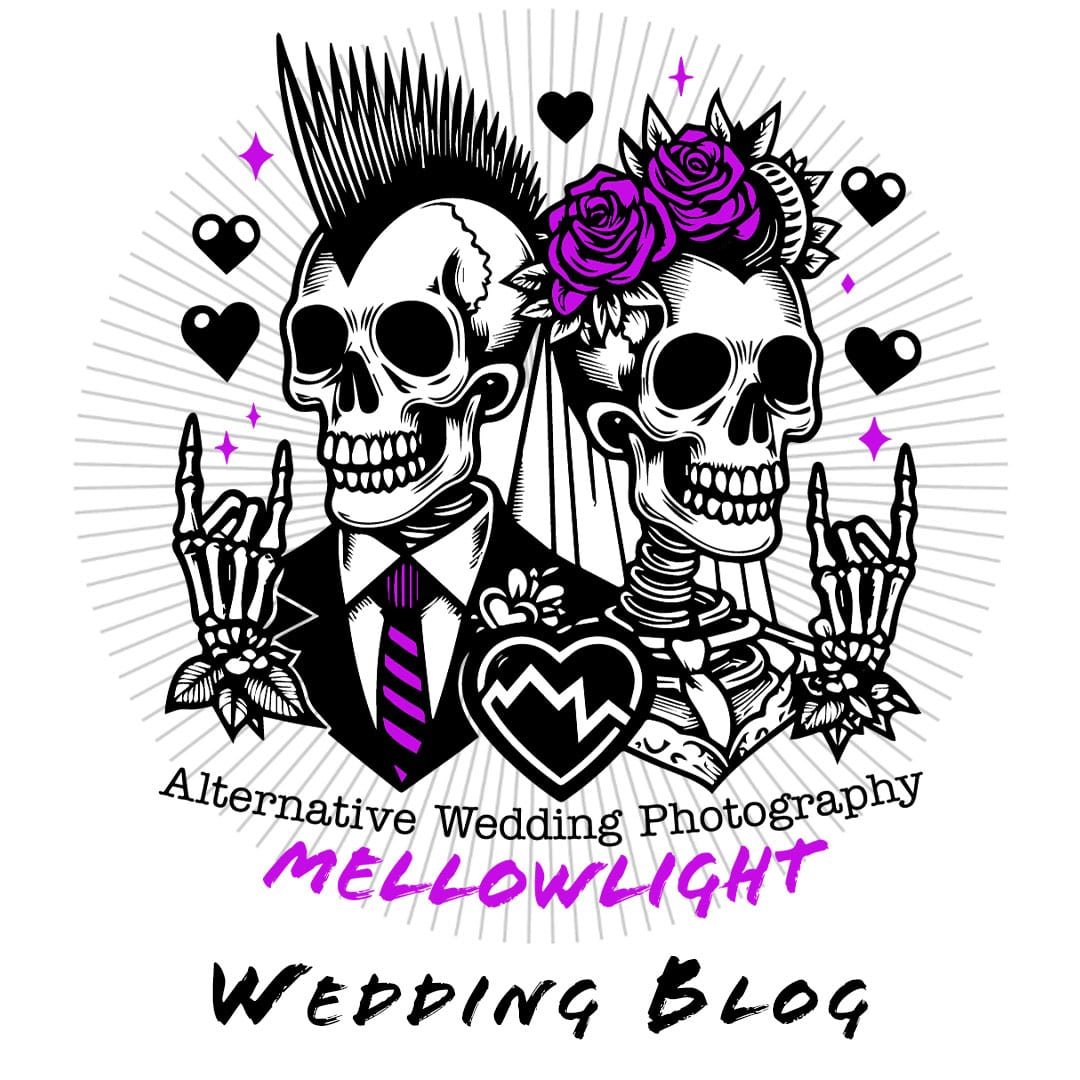
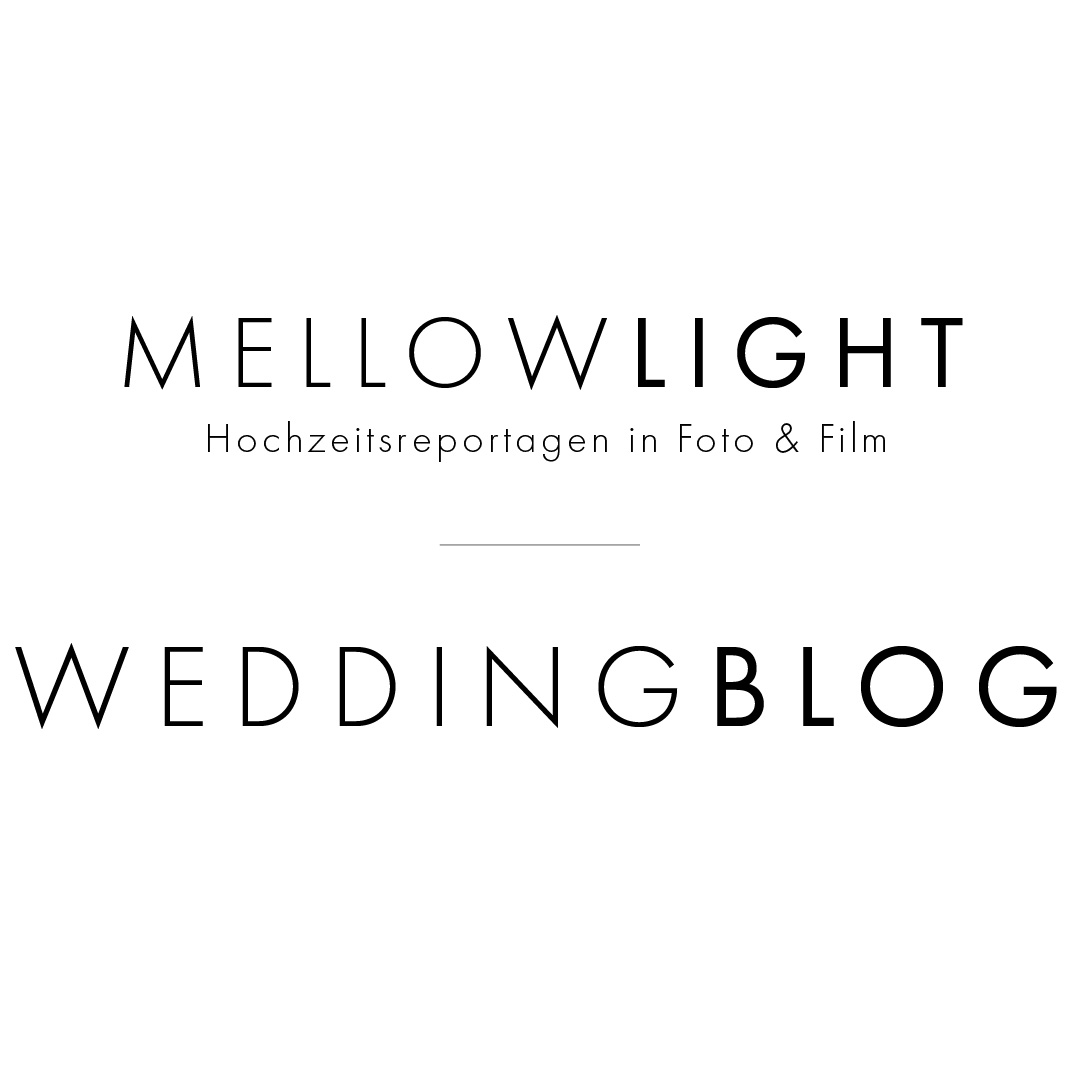
reworked design

diff --git a/_layouts/default.html b/_layouts/default.html
@@ -15,8 +15,12 @@
 		<meta property="og:image:height" content="630">
 		{% endif %}
 		<link rel="stylesheet" href="https://stackpath.bootstrapcdn.com/bootstrap/4.1.3/css/bootstrap.min.css" integrity="sha384-MCw98/SFnGE8fJT3GXwEOngsV7Zt27NXFoaoApmYm81iuXoPkFOJwJ8ERdknLPMO" crossorigin="anonymous">
+		<!--
 		<link href="{{ site.baseurl }}/assets/css/screen.css" rel="stylesheet">
 		<link href="{{ site.baseurl }}/assets/css/main.min.css" rel="stylesheet">
+		-->
+		<link href="../assets/css/screen.css" rel="stylesheet">
+		<link href="../assets/css/main.min.css" rel="stylesheet">
 		<script data-goatcounter="https://blog-mellowlight.goatcounter.com/count"
         async src="//gc.zgo.at/count.js"></script>
 	</head>
@@ -45,7 +49,7 @@ ga('send', 'pageview');
 ================================================== -->
 		<!-- Header -->
 		<header class="zoom-me" id="header">
-			<nav role="navigation" class="top-right open nav-mobile hidden">
+			<nav role="navigation" class="top-right open nav-mobile">
 				<a href="index.html" class="disc l2"><div>Home</div></a>
 				<a href="about.html" class="disc l3"><div>About Us</div></a>
 				<a href="gallery.html" class="disc l4"><div>Stories</div></a>
@@ -53,7 +57,7 @@ ga('send', 'pageview');
 				<a href="faq.html" class="disc l6"><div>Gut zu wissen</div></a>
 				<a href="#kontakt" class="disc l7"><div>Kontakt</div></a>
 				<a class="disc l8 toggle" id="burger-toggle">
-					<svg xmlns="http://www.w3.org/2000/svg" height="2em" viewBox="0 0 448 512">
+					<svg xmlns="http://www.w3.org/2000/svg" height="-2em" viewBox="0 0 448 512">
 						<!--! Font Awesome Free 6.4.2 by @fontawesome - https://fontawesome.com License - https://fontawesome.com/license (Commercial License) Copyright 2023 Fonticons, Inc. -->
 						<style>
 							svg {
@@ -65,7 +69,7 @@ ga('send', 'pageview');
 					</svg>
 				</a>
 			</nav>
-			<nav class="navbar hidden" id="navbar">
+			<nav class="navbar" id="navbar">
 				<a href="index.html" class="nav-left">MELLOW<span class="highlight">LIGHT</span></a>
 				<div class="nav-center">
 					<a href="about.html">About Us</a>
@@ -77,9 +81,12 @@ ga('send', 'pageview');
 					<a href="#kontakt" class="button special">Kontakt</a>
 				</div>
 			</nav>
-			<h1>Mellowlight</h1>
-				<p>Wedding and Couple Photography</p>
-				<h2>Wedding Blog</h2>
+			<div class="blog-headline">
+				<div class="blog-brand">MELLOW<span class="highlight">LIGHT</span></div>
+				<div class="blog-subtitle">Hochzeitsreporragen in Foto & Film</div>
+				<div class="line"></div>
+				<div class="blog-title">WEDDING<span class="highlight">BLOG</span></div>
+			</div>
 		</header>
 		<!-- End Navigation
 ================================================== -->
@@ -129,7 +136,7 @@ ga('send', 'pageview');
 			<div class="d-md-flex h-100">
 				<div class="col-md-4 transpdark align-self-center text-center h-100">
 					<div class="d-md-flex align-items-center justify-content-center h-100">
-						<h2 class="d-md-block align-self-center py-1 font-weight-light">Kategorien erkunden <span class="d-none d-md-inline">→</span></h2>
+						<h3 class="d-md-block align-self-center py-1 font-weight-light">Kategorien erkunden <span class="d-none d-md-inline">→</span></h3>
 					</div>
 				</div>
 				<div class="col-md-8 p-5 align-self-center text-center">

diff --git a/assets/css/screen.css b/assets/css/screen.css
@@ -744,9 +744,7 @@ iframe {
         padding: 0;
         height: 350px;
         border-radius: 0;
-        background-image: url(../images/stacked-waves-2.svg);
-        background-size: cover;
-    }
+        background-color: 6f6f6f;
 
     .jumbotron.fortags .col-md-4 {
         background: rgba(255, 255, 255, 0.75);
@@ -762,8 +760,7 @@ iframe {
     margin-top: 3rem;
     padding: 0;
     border-radius: 0;
-    background-image: url(../images/stacked-waves-2.svg);
-    background-size: cover;
+    background-color: 6f6f6f;
 	margin-bottom: 0px;
 }
 
@@ -879,6 +876,35 @@ iframe {
 .toggle svg{
     margin-top: 0 ! important;
 }
+
+.blog-headline{
+    font-family: "futura-pt", sans-serif;
+	font-weight: 300;
+    
+    color:#111;
+}
+.blog-brand{
+    font-size: 2rem;
+    letter-spacing: 5px;
+}
+
+.blog-subtitle{
+    font-size: 1rem;
+    margin-top: -10px;
+    color:#6f6f6f;
+}
+.line {
+  width: 120px;
+  height: 0;
+  border: 1px solid #6f6f6f;
+  display:inline-block;
+}
+
+.blog-title{
+    font-size: 3rem;
+    letter-spacing: 5px;
+}
+    
 /*
 h2 a, h4.card-text{
 	font-family: itc-american-typewriter;
